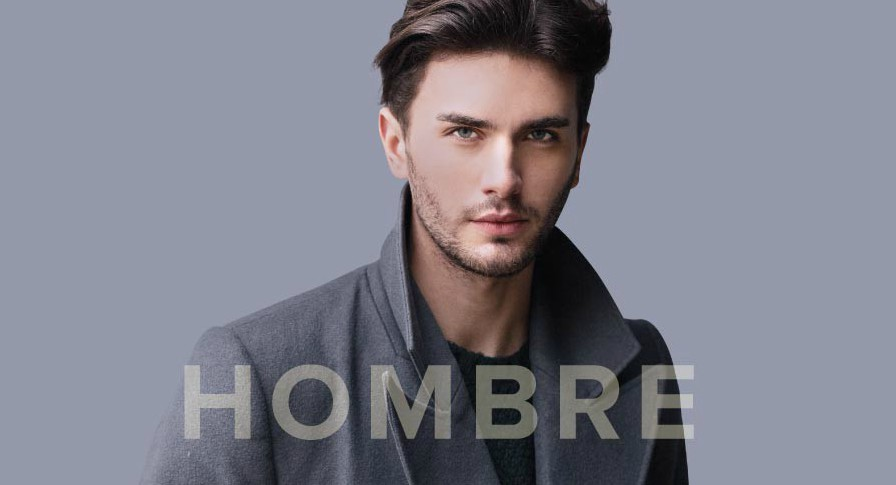
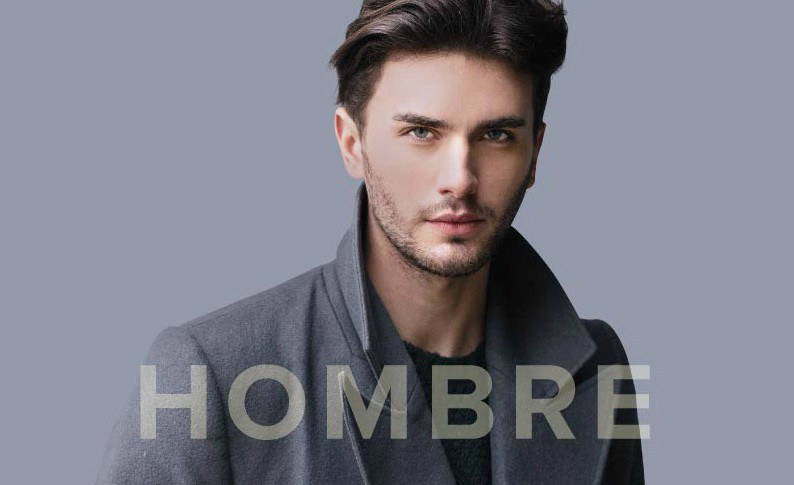
add

diff --git a/src/App.css b/src/App.css
@@ -15,29 +15,44 @@
 #male {
   background-image: url(./img/men.jpg);
   background-repeat: no-repeat;
-  background-size: contain;
-  width: 500px;
-  height: 250px;
+  background-size: cover;
+  width: 430px;
+  height: 235px;
+  /* position: relative;
+  right: 43px; */
   cursor: pointer;
-  margin-top: 25px;
+  /* margin-top: 25px; */
 }
+#male:hover {
+  box-shadow: 0 0 35px 20px rgba(79, 69, 66, 0.2);
+  transform: scale(1.2);
+}
+/* @media screen and (min-width: 480px) {
+    male {
+    background-color: lightgreen;
+  }
+} */
 
 #female {
   background-image: url(./img/woman.jpg);
   background-repeat: no-repeat;
-  background-size: contain;
-  width: 500px;
-  height: 250px;
+  background-size: cover;
+  width: 430px;
+  height: 235px;
   cursor: pointer;
-  margin-top: 25px;
+  /* margin-top: 25px; */
+}
+#female:hover {
+  box-shadow: 0 0 25px 20px rgba(79, 69, 66, 0.2);
+  transform: scale(1.2);
 }
 
 .blockAll {
-  margin: 0 24px ;
+  margin: 0 24px;
 }
 .textDesign {
   font-size: 1.4em;
-  margin:  5px 16px;
+  margin: 5px 16px;
   padding: 5px 16px;
 }
 h2 {
@@ -47,30 +62,21 @@ h2 {
   margin: 15px;
   padding: 15px;
 }
-
-
-
-
-
 .stepwizard-step p {
   margin-top: 10px;
 }
-
 .stepwizard-row {
   display: table-row;
 }
-
 .stepwizard {
   display: table;
   width: 50%;
   position: relative;
 }
-
 .stepwizard-step button[disabled] {
   opacity: 1 !important;
   filter: alpha(opacity=100) !important;
 }
-
 .stepwizard-row:before {
   top: 14px;
   bottom: 0;
@@ -81,13 +87,11 @@ h2 {
   background-color: #ccc;
   z-order: 0;
 }
-
 .stepwizard-step {
   display: table-cell;
   text-align: center;
   position: relative;
 }
-
 .btn-circle {
   width: 30px;
   height: 30px;
@@ -98,134 +102,10 @@ h2 {
   border-radius: 15px;
 }
 
-
-
-
-.mySlides {
-  display: none
-}
-
-
-/* Slideshow container */
-
-.slideshow-container {
-  max-width: 1000px;
-  position: relative;
-  margin: auto;
-}
-
-
-/* Next & previous buttons */
-
-.prev,
-.next {
-  cursor: pointer;
-  position: absolute;
-  top: 50%;
-  width: auto;
-  padding: 16px;
-  margin-top: -22px;
-  color: white;
-  font-weight: bold;
-  font-size: 18px;
-  transition: 0.6s ease;
-  border-radius: 0 3px 3px 0;
-}
-
-
-/* Position the "next button" to the right */
-
-.next {
-  right: 0;
-  border-radius: 3px 0 0 3px;
-}
-
-
-/* On hover, add a black background color with a little bit see-through */
-
-.prev:hover,
-.next:hover {
-  background-color: rgba(0, 0, 0, 0.8);
-}
-
-
-/* Caption text */
-
-.text {
-  color: #f2f2f2;
-  font-size: 15px;
-  padding: 8px 12px;
-  position: absolute;
-  bottom: 8px;
-  width: 100%;
-  text-align: center;
-}
-
-
-/* Number text (1/3 etc) */
-
-.numbertext {
-  color: #f2f2f2;
-  font-size: 12px;
-  padding: 8px 12px;
-  position: absolute;
-  top: 0;
-}
-
-
-/* The dots/bullets/indicators */
-
-.dot {
-  cursor: pointer;
-  height: 15px;
-  width: 15px;
-  margin: 0 2px;
-  background-color: #bbb;
-  border-radius: 50%;
-  display: inline-block;
-  transition: background-color 0.6s ease;
-}
-
-.active,
-.dot:hover {
-  background-color: #717171;
-}
-
-
-/* Fading animation */
-
-.fade {
-  -webkit-animation-name: fade;
-  -webkit-animation-duration: 1.5s;
-  animation-name: fade;
-  animation-duration: 1.5s;
-}
-
-@-webkit-keyframes fade {
-  from {
-    opacity: .4
-  }
-  to {
-    opacity: 1
-  }
-}
-
-@keyframes fade {
-  from {
-    opacity: .4
-  }
-  to {
-    opacity: 1
-  }
-}
-
-
-/* On smaller screens, decrease text size */
-
-@media only screen and (max-width: 300px) {
-  .prev,
-  .next,
-  .text {
-    font-size: 11px
-  }
+.bgOrange {
+  background: rgba(255, 162, 0, 0.123);
+  min-width: 100%;
+  min-height: 100%;
+  height: 500px;
+  padding: 24px 5px;
 }

diff --git a/src/Components/FirstSelection.js b/src/Components/FirstSelection.js
@@ -9,21 +9,21 @@ import {Age} from './Age';
 
 
 export const Menu = ({ genderSelect, title, ageSelected }) => {
-  return (
-    <div className="container-fluid blockAll">
+  return <div className="container-fluid blockAll">
       <Grid fluid className="text-center">
-      <Brand/>
+        <Brand />
         <hr />
-        <p className="textDesign text-justify">
-          Personalizar tus prendas con tus propios diseños desde un mismo lugar,
-          lo tienes al alcance de un click. Entra para dejar volar tu
-          imaginación y para empezar a familiarizarte con todas las funciones de
-          esta plataforma.
-        </p>
-        {!genderSelect && <Gender />}
-        {genderSelect && <Age />}
-        {ageSelected && <Redirect to="/layers" />}
+        <div className="bgOrange">
+          <p className="textDesign text-justify">
+            Personalizar tus prendas con tus propios diseños desde un mismo
+            lugar, lo tienes al alcance de un click. Entra para dejar volar tu
+            imaginación y para empezar a familiarizarte con todas las
+            funciones de esta plataforma.
+          </p>
+          {!genderSelect && <Gender />}
+          {genderSelect && <Age />}
+          {ageSelected && <Redirect to="/layers" />}
+        </div>
       </Grid>
-    </div>
-  );
+    </div>;
 };
